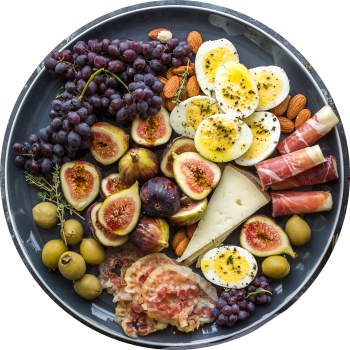
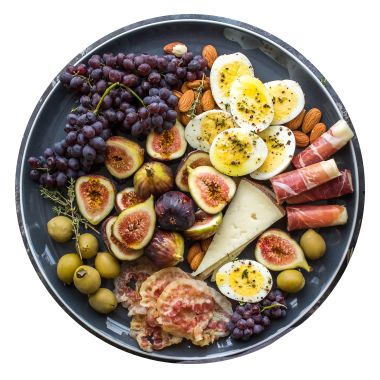
change introitemcard images and sizing

diff --git a/src/components/introItemCard/introItemCard.module.scss b/src/components/introItemCard/introItemCard.module.scss
@@ -1,17 +1,17 @@
 @import '../../styles/variables';
 
-$cardWidth: 300px;
-$imageSize: $cardWidth - 30px;
+$cardWidth: 315px;
+$imageSize: $cardWidth - 10px;
 
 .card {
   position: relative;
-  height: calc(#{$cardWidth} * 1);
+  height: $cardWidth;
   min-width: $cardWidth;
   width: $cardWidth;
   max-width: $cardWidth;
   background-color: white;
   box-shadow: 5px 5px 10px rgba(0,0,0,0.1);
-  padding: 160px 30px 30px;
+  padding: 160px 40px 40px;
   border-radius: 20px;
 }
 
@@ -22,23 +22,23 @@ $imageSize: $cardWidth - 30px;
   transform: translateX(-50%);
   width: $imageSize;
   height: $imageSize;
-  background-color: #333;
   border-radius: 50%;
 }
 
 .title {
   font-weight: 900;
-  font-size: 1.125rem;
+  font-size: 1.375rem;
   margin-bottom: 0;
 }
 
 .description {
   color: $grey;
-  margin: 0;
+  margin: 5px 0;
+  line-height: 1.25;
 }
 
 .info {
   color: $secondary;
-  font-size: 0.875rem;
+  font-size: 1rem;
   font-weight: 600;
 }

diff --git a/src/sections/intro.js b/src/sections/intro.js
@@ -7,9 +7,9 @@ const Intro = () => {
     <section className={styles.intro}>
       <div className={styles.wrapper}>
         <div style={{marginLeft: 'auto'}}>
-          <IntroItemCard image='bowl-small.png' title='Grilled Chicken Salad' description='Real chicken' info='980kj' />
+          <IntroItemCard image='medium1.png' title='Premier Platter' description='Freshly grown produce with free-range eggs' info='875kj' />
         </div>
-        <IntroItemCard image='bowl-small.png' title='Grilled Chicken Salad' description='Real chicken' info='980kj' />
+        <IntroItemCard image='medium2.png' title='Grilled Chicken' description='Real chicken with triple seasonings' info='1020kj' />
         <div className={styles.container}>
           <h2 className={styles.heading}>Delicious food <br />is waiting for you</h2>
           <p className={styles.text}>Lorem ipsum dolor sit amet, consectetur adipiscing elit. 
